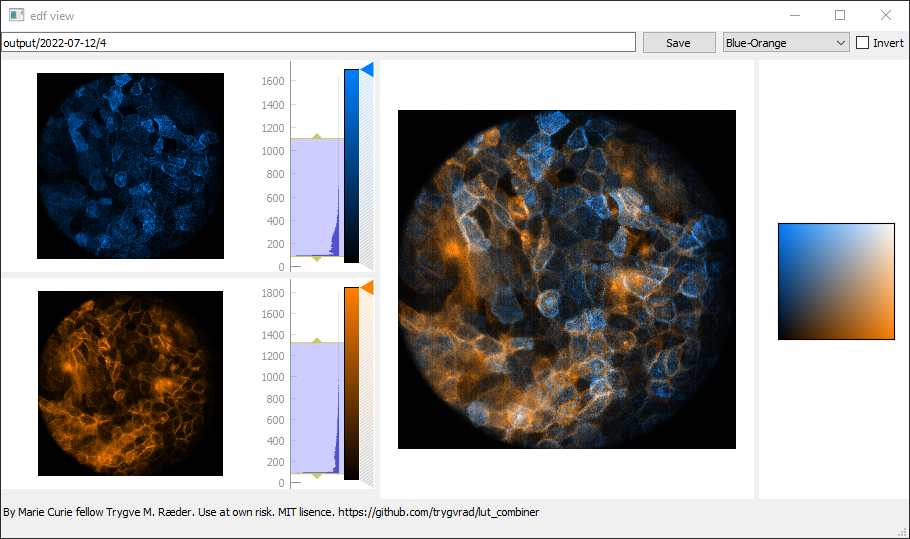
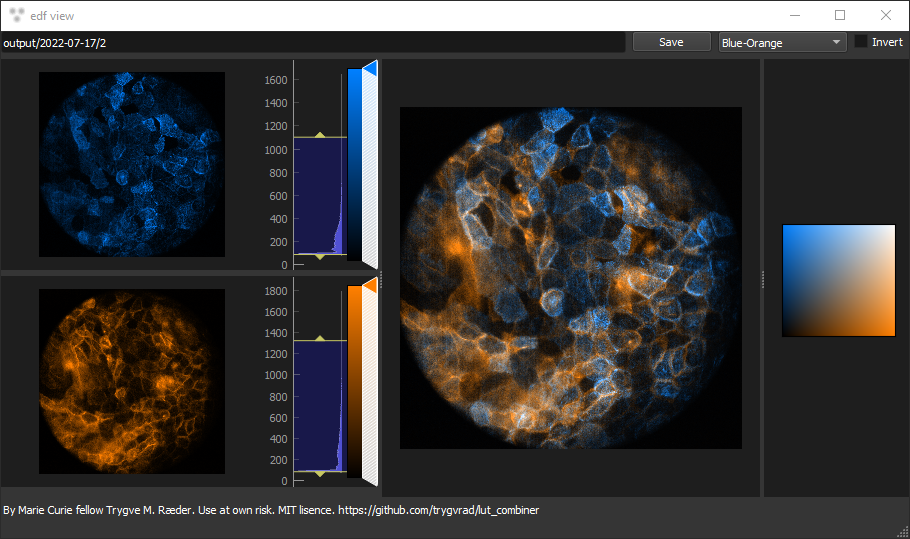
dark theme

diff --git a/lut_combiner.py b/lut_combiner.py
@@ -14,7 +14,7 @@ import tifffile
 import datetime
 class MainWindow(QtWidgets.QMainWindow):
     def __init__(self, *args, **kwargs):
-        pyqtgraph.setConfigOption('background', 'W')
+        pyqtgraph.setConfigOption('background', 'w')
         #set theme:
         if getattr(sys, 'frozen', False):
             application_path = os.path.dirname(sys.executable)
@@ -27,6 +27,7 @@ class MainWindow(QtWidgets.QMainWindow):
             with open(path) as f:
                 code = compile(f.read(), path, 'exec')
                 exec(code, globals(), locals())
+
 
         super(MainWindow, self).__init__(*args, **kwargs)
         #Load the UI Page
@@ -50,6 +51,8 @@ class MainWindow(QtWidgets.QMainWindow):
         uic.loadUi(path, self)
 
         self.setObjectName("MainWindow")
+        # set icon
+        self.setWindowIcon(QtGui.QIcon('iconOri.ico'))
 
         colors = [
             (0, 0, 0),

diff --git a/set_theme.py b/set_theme.py
@@ -21,7 +21,7 @@ palette.setColor(QPalette.HighlightedText, Qt.black)
 QApplication.setPalette(palette)
 
 import pyqtgraph
-pyqtgraph.setConfigOption('background', 'k')
+pyqtgraph.setConfigOption('background', [30,30,30])
 
 import matplotlib as mpl
-mpl.rcParams["figure.facecolor"] = 'black'
+mpl.rcParams["figure.facecolor"] = np.array([30/255,30/255,30/255])
